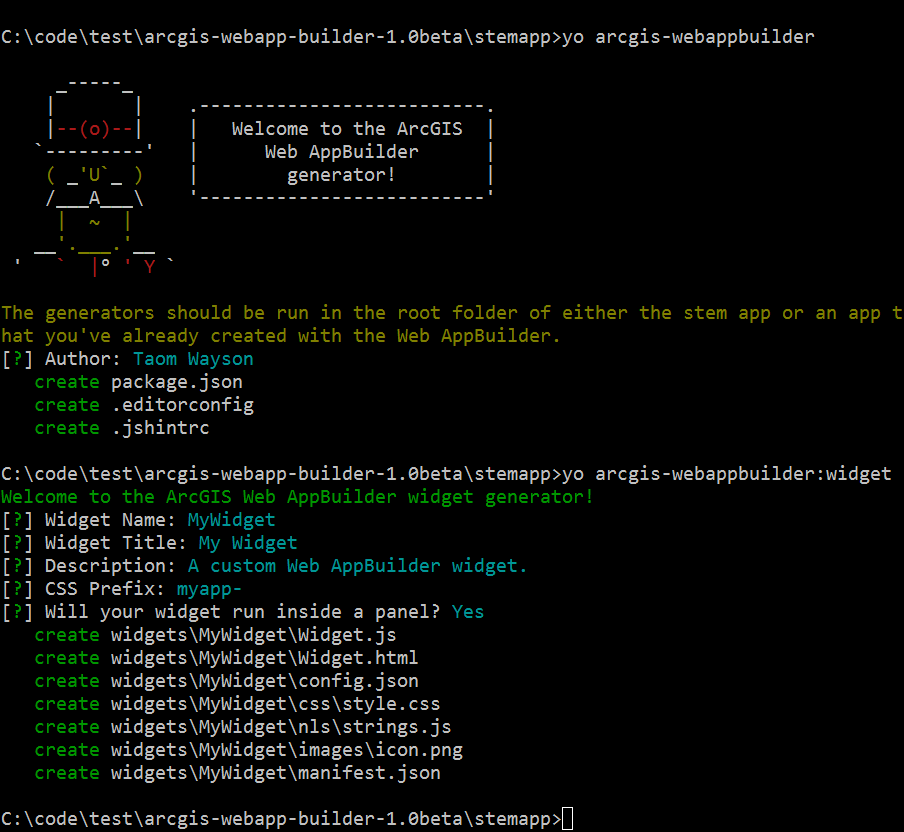
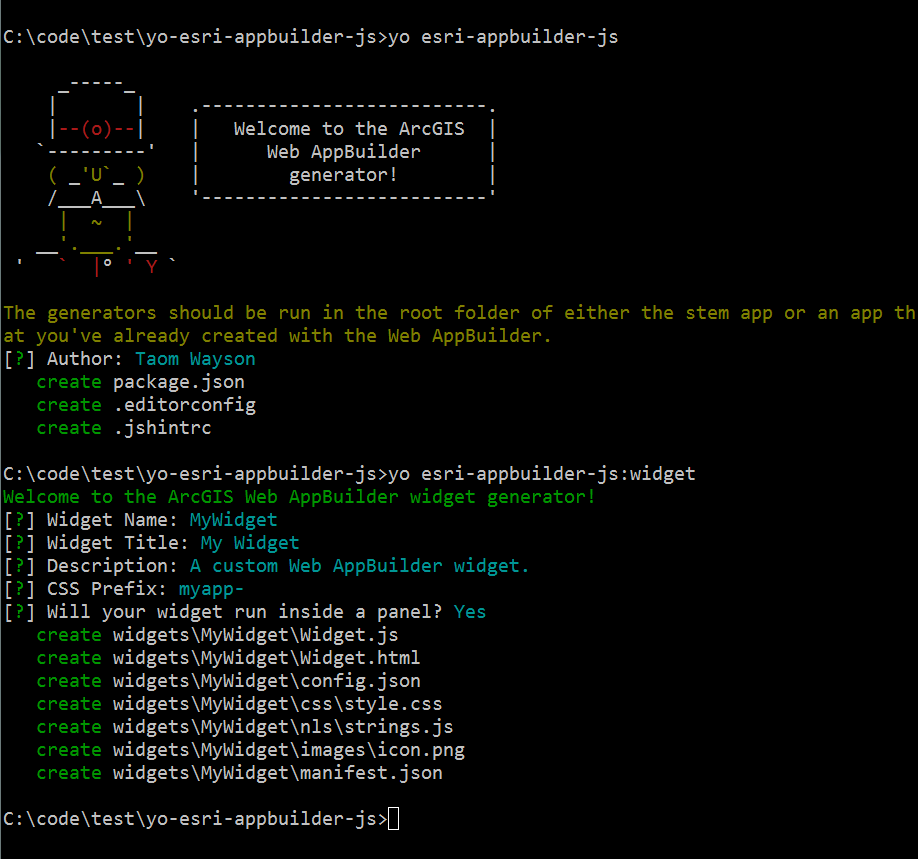
updated to new name: generator-esri-appbuilder-js

diff --git a/test/test-widget.js b/test/test-widget.js
@@ -3,14 +3,14 @@
 var path = require('path');
 var helpers = require('yeoman-generator').test;
 
-describe('arcgis-webappbuilder:widget subgenerator', function () {
+describe('esri-appbuilder-js:widget subgenerator', function () {
   beforeEach(function (done) {
     helpers.testDirectory(path.join(__dirname, 'temp'), function (err) {
       if (err) {
         return done(err);
       }
 
-      this.widget = helpers.createGenerator('arcgis-webappbuilder:widget', [
+      this.widget = helpers.createGenerator('esri-appbuilder-js:widget', [
         '../../widget'
       ]);
       done();

diff --git a/test/test-creation.js b/test/test-creation.js
@@ -3,14 +3,14 @@
 var path = require('path');
 var helpers = require('yeoman-generator').test;
 
-describe('arcgis-webappbuilder generator', function () {
+describe('esri-appbuilder-js generator', function () {
   beforeEach(function (done) {
     helpers.testDirectory(path.join(__dirname, 'temp'), function (err) {
       if (err) {
         return done(err);
       }
 
-      this.app = helpers.createGenerator('arcgis-webappbuilder:app', [
+      this.app = helpers.createGenerator('esri-appbuilder-js:app', [
         '../../app'
       ]);
       done();

diff --git a/test/test-load.js b/test/test-load.js
@@ -2,7 +2,7 @@
 'use strict';
 var assert = require('assert');
 
-describe('arcgis-webappbuilder generator', function () {
+describe('esri-appbuilder-js generator', function () {
   it('can be imported without blowing up', function () {
     var app = require('../app');
     assert(app !== undefined);

diff --git a/README.md b/README.md
@@ -1,4 +1,4 @@
-# generator-arcgis-webappbuilder [![Build Status](https://secure.travis-ci.org/tomwayson/generator-arcgis-webappbuilder.png?branch=master)](https://travis-ci.org/tomwayson/generator-arcgis-webappbuilder)
+# generator-esri-appbuilder-js [![Build Status](https://secure.travis-ci.org/tomwayson/generator-esri-appbuilder-js.png?branch=master)](https://travis-ci.org/tomwayson/generator-esri-appbuilder-js)
 
 > [Yeoman](http://yeoman.io) generator to help customize [the ArcGIS Web AppBuilder](http://video.esri.com/watch/3211/web-app-builder).
 
@@ -6,7 +6,7 @@
 
 This generator scaffolds out the boilerplate files that are needed when you are customizing the Web AppBuilder. This includes [generators](#running-the-generators) to creates project files (`package.json`, `.jshintrc`, etc) and scaffold out the files needed to create a new custom widget
 
-![Screenshot](https://raw.githubusercontent.com/tomwayson/generator-arcgis-webappbuilder/master/docs/images/running-the-generators.png)
+![Screenshot](https://raw.githubusercontent.com/tomwayson/generator-esri-appbuilder-js/master/docs/images/running-the-generators.png)
 
 ## Getting Started
 
@@ -18,10 +18,10 @@ To install Yeoman from npm (if not already), run:
 $ npm install -g yo
 ```
 
-To install generator-arcgis-webappbuilder from npm, run:
+To install generator-esri-appbuilder-js from npm, run:
 
 ```bash
-$ npm install -g generator-arcgis-webappbuilder
+$ npm install -g generator-esri-appbuilder-js
 ```
 
 ### Running the Generators
@@ -33,7 +33,7 @@ The generators should be run in the root folder of either the stem app or an app
 Currently the app generator doesn't do much other than install some project files (`package.json`, `.jshintrc`, etc) and ensure required subfolders (like `widgets`) exist. The subgenerators do most of the work.
 
 1. Navigate into either `stemapp` or `builder/apps/[appId]` under your local Web AppBuilder installation
-2. Run the generator with `yo arcgis-webappbuilder`
+2. Run the generator with `yo esri-appbuilder-js`
 3. Answer the man's questions!
 
 |Prompt|Description|Default|
@@ -45,7 +45,7 @@ Currently the app generator doesn't do much other than install some project file
 Scaffolds out the files needed to create a new custom widget.
 
 1. Navigate into either `stemapp` or `builder/apps/[appId]` under your local Web AppBuilder installation
-2. Run the generator with `yo arcgis-webappbuilder:widget`
+2. Run the generator with `yo esri-appbuilder-js:widget`
 3. Answer the man's questions!
 
 |Prompt|Description|Default|
@@ -77,11 +77,11 @@ MyWidget
 
 The next time you run the Web AppBuilder, you will see something like the following on the widgets panel:
 
-![Widget in the Builder](https://raw.githubusercontent.com/tomwayson/generator-arcgis-webappbuilder/master/docs/images/widget-in-builder.png)
+![Widget in the Builder](https://raw.githubusercontent.com/tomwayson/generator-esri-appbuilder-js/master/docs/images/widget-in-builder.png)
 
 ## Issues
 
-Find a bug or want to request a new feature?  Please let us know by [submitting an issue](https://github.com/tomwayson/generator-arcgis-webappbuilder/issues).
+Find a bug or want to request a new feature?  Please let us know by [submitting an issue](https://github.com/tomwayson/generator-esri-appbuilder-js/issues).
 
 ## Contributing
 
